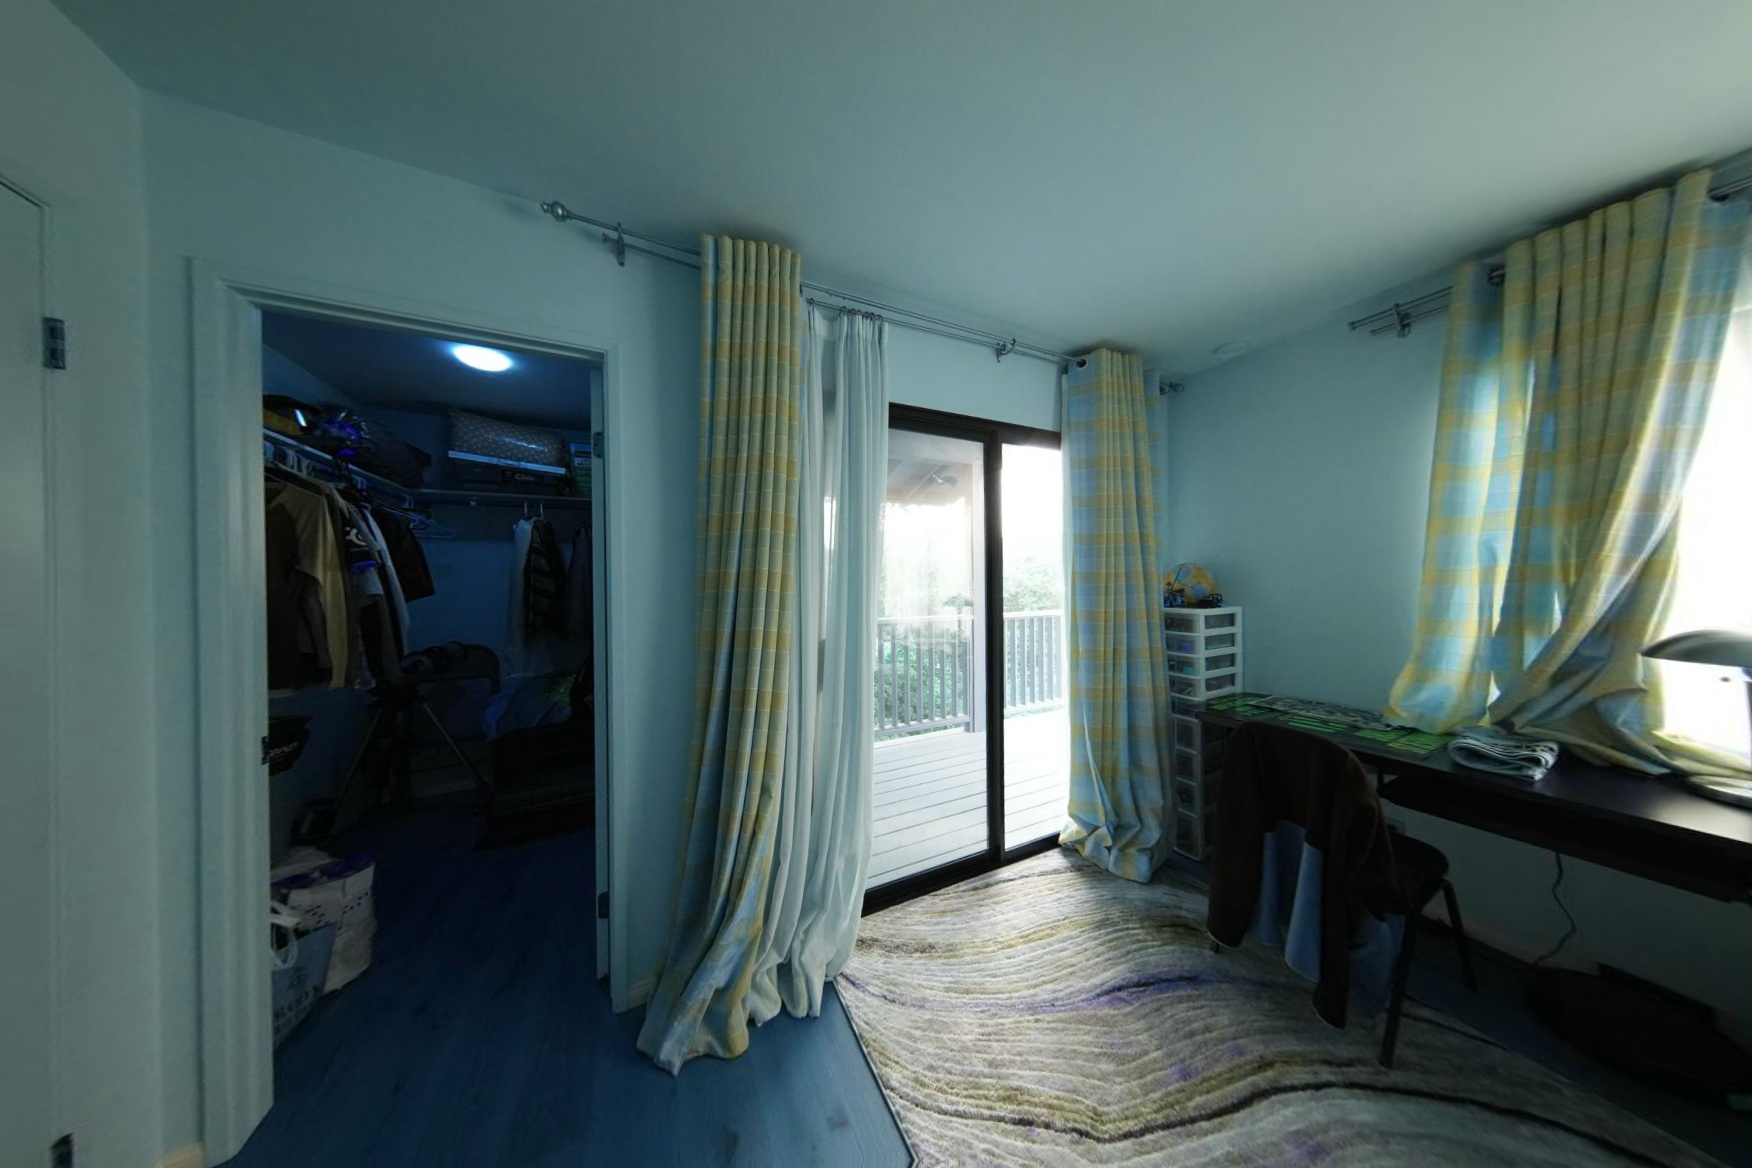
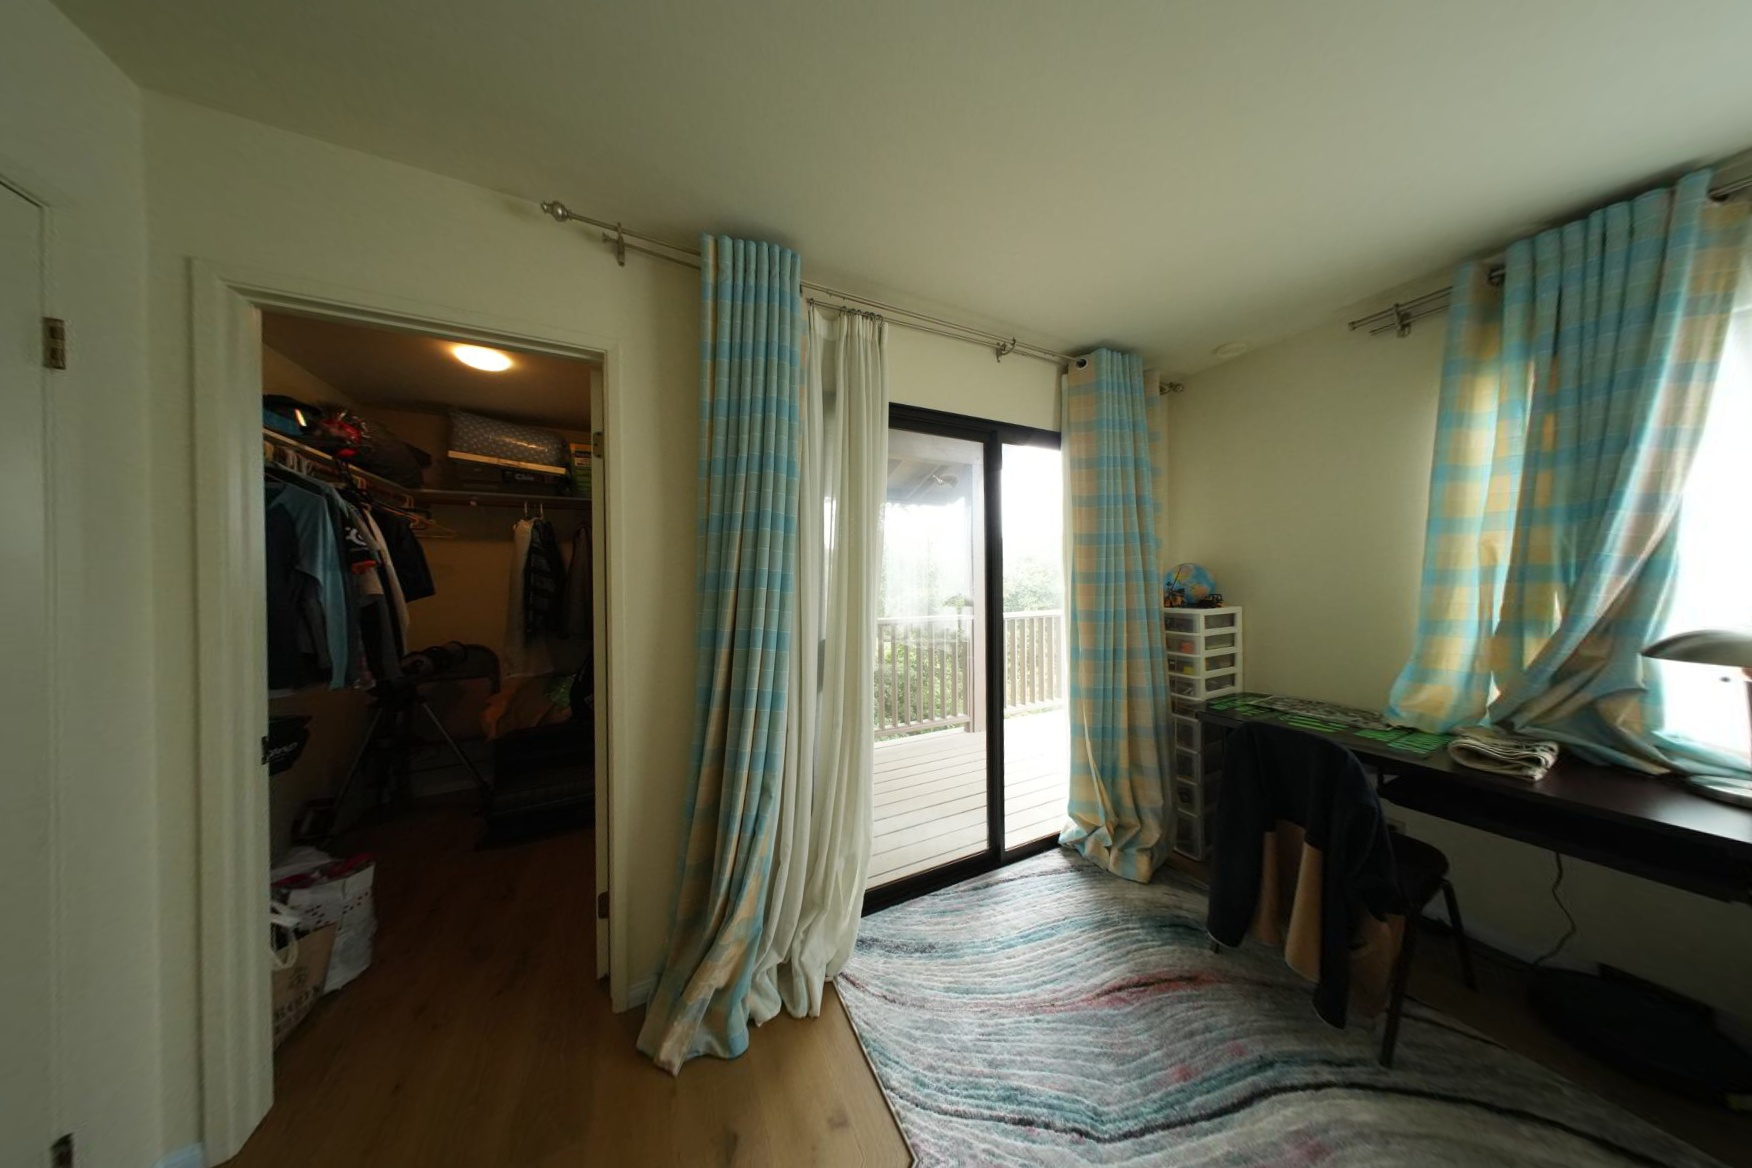
correct dlsr save image rgb order

diff --git a/examples/scannetpp_dataset.py b/examples/scannetpp_dataset.py
@@ -19,6 +19,7 @@ def test_dlsr_dataset(dataset: ScanNetPPDataset, output_dir: str):
             continue
         dataset.set_scene_id(scene_id)
         undistorted_image = dataset.dlsr_dataset.get_image_by_index(0)
+        undistorted_image = cv2.cvtColor(undistorted_image, cv2.COLOR_RGB2BGR)
         # save image by scene_id
         os.makedirs(output_dir, exist_ok=True)
         cv2.imwrite(output_path, undistorted_image)
@@ -36,6 +37,7 @@ def test_dlsr_dataset(dataset: ScanNetPPDataset, output_dir: str):
         if os.path.isfile(output_path):
             continue
         undistorted_image = dataset.dlsr_dataset.get_image_by_index(i)
+        undistorted_image = cv2.cvtColor(undistorted_image, cv2.COLOR_RGB2BGR)
         cv2.imwrite(output_path, undistorted_image)
 
 
